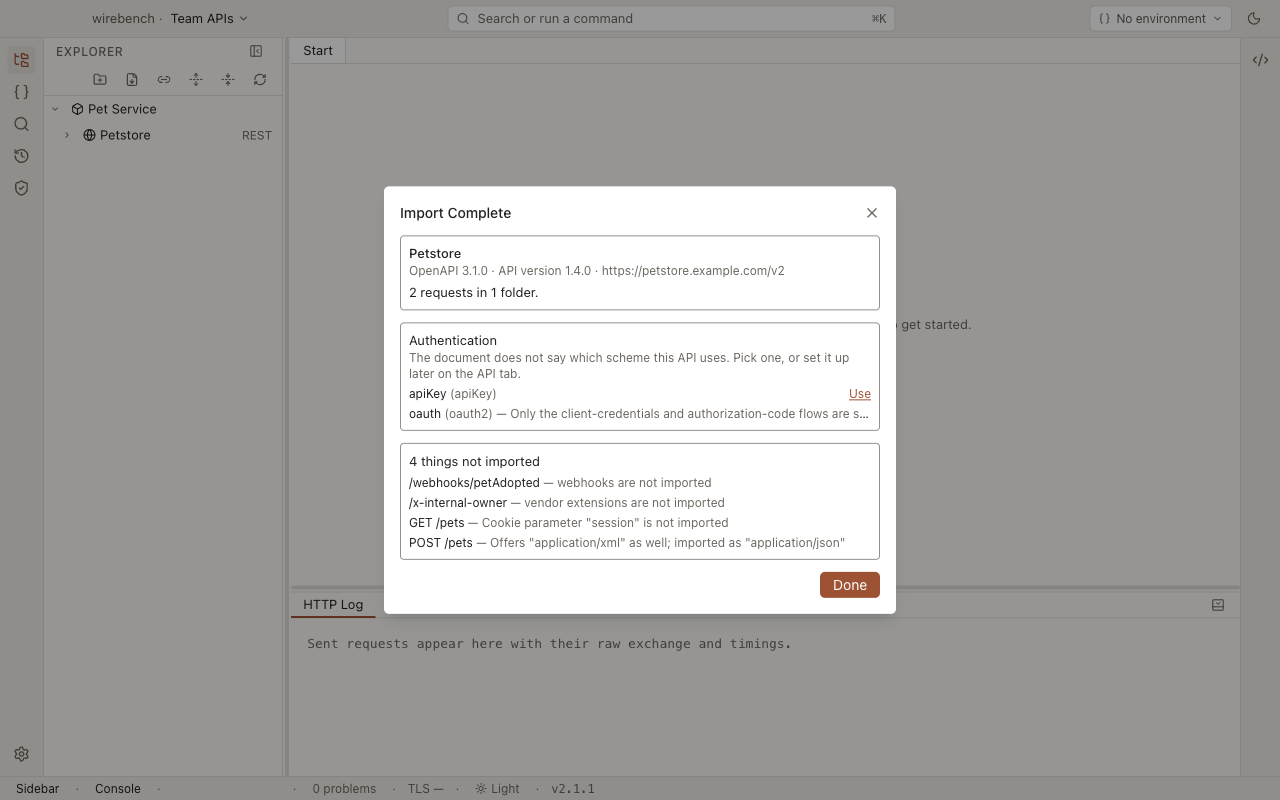
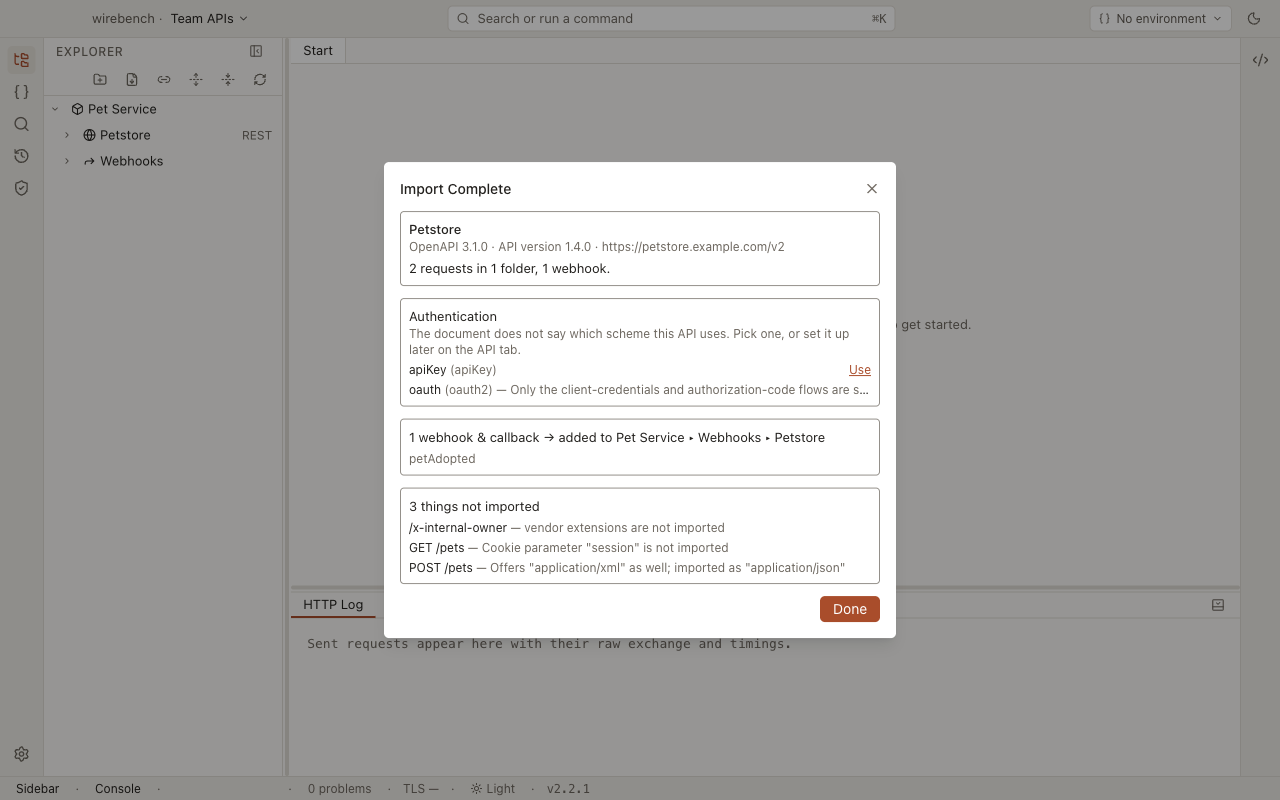
docs(site): the OpenAPI switching page and its screenshot show webhooks and callbacks being imported
The page and its picture dated from 2.1.1, when an OpenAPI document's webhooks and callbacks were
skipped. Since #176 they are imported as webhook items in the project's Webhooks collection, so the
page said the opposite of what the importer does, and the picture listed "webhooks are not imported",
a message the importer no longer has.

The page now says webhooks and callbacks come across, keeps links and a 3.0 document's webhooks as
skipped (parse.ts), and links the Sending webhooks guide. The screenshot is re-shot from the spec. Its
test now dismisses the changed-on-disk banner the import raises behind the dialog, which the shared
helper skips while a dialog is open.

diff --git a/e2e/specs/docs-screenshots.spec.ts b/e2e/specs/docs-screenshots.spec.ts
@@ -615,6 +615,15 @@ test.describe('docs site screenshots', () => {
     await window.getByTestId('import-openapi-paste').fill(SWITCHING_OPENAPI);
     await window.getByTestId('import-openapi-submit').click();
     await expect(window.getByTestId('import-openapi-skipped')).toBeVisible();
+    // The import writes the project's files, so the watcher raises a "changed on disk" banner behind
+    // the dialog. Its overlay swallows a pointer click, so Ignore is dispatched directly.
+    const ignore = window.locator('[data-testid^="changed-on-disk-ignore"]');
+    await expect(ignore.first()).toBeVisible({ timeout: 10_000 });
+    while ((await ignore.count()) > 0) {
+      await ignore.first().dispatchEvent('click');
+    }
+    await expect(window.locator('[data-testid^="changed-on-disk-banner"]')).toHaveCount(0);
+    await expect(window.getByTestId('import-openapi-skipped')).toBeVisible();
     await shoot(window, 'switching/openapi-summary');
   });
 });
